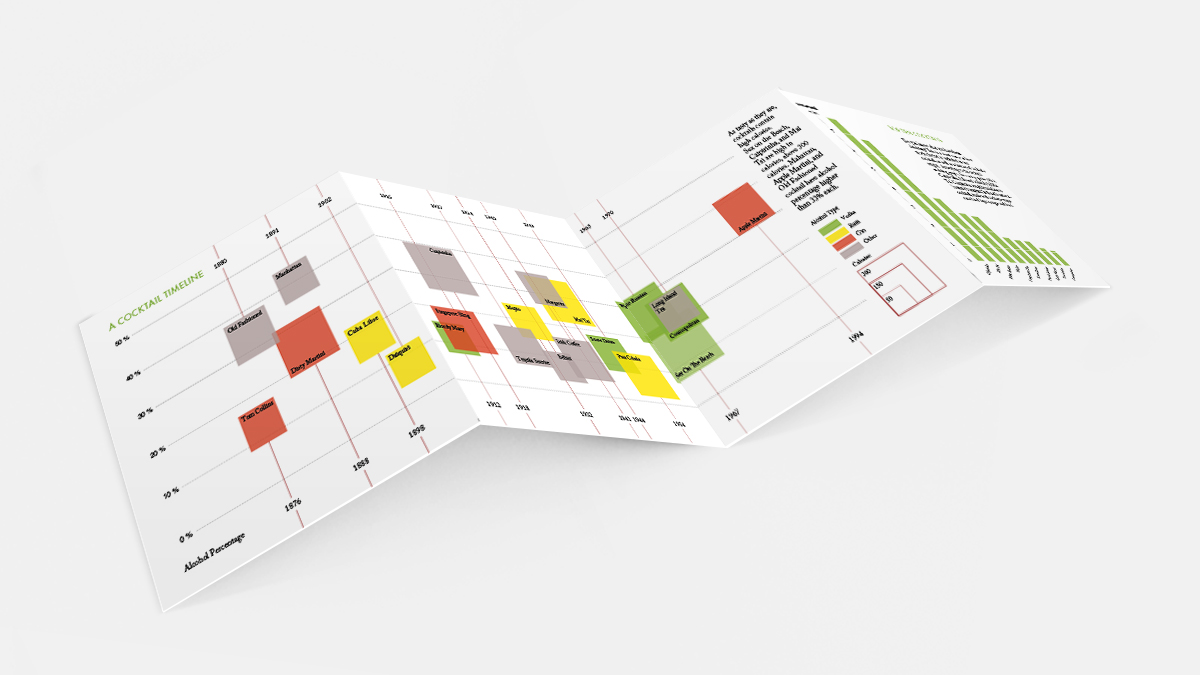
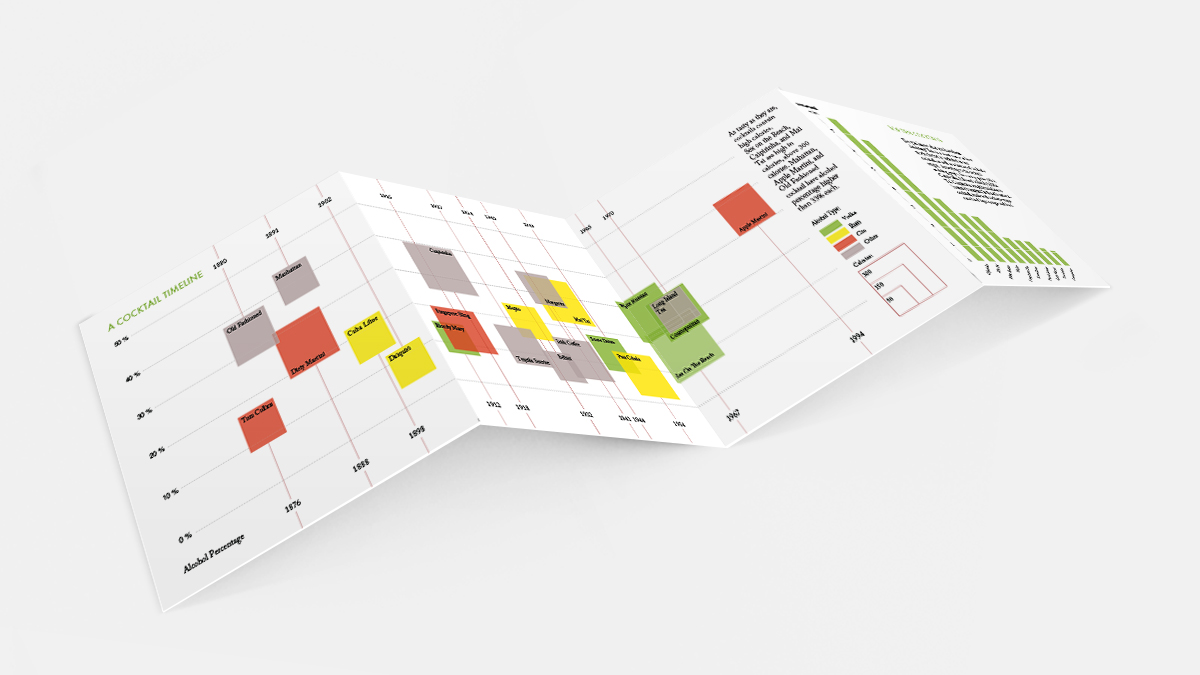
Social Media, Websie, Exist, Cocktail images and content updated. High resolution images now available

diff --git a/directory/cocktail.html b/directory/cocktail.html
@@ -77,25 +77,24 @@ GitHub: Yunggg // http://github.com/Yunggg
 			<div class="col-md-12 portfolio">
 				<div class="portfolio_copy">
 					<h2>Cocktails</h2>
-					<p>Do you really know what you’ve been drinking? After stumbling on a survey about cocktails, in which most people are not aware of what is in their drinks, especially college students, I thought of creating a cocktail infographic. This is a short study on how much alcohol is included in one cocktail, as well as a history of cocktails origin. The deliverable is a cocktail napkin which can be leave-behind at bars/restaurants for casual reading.
+					<p>Do you really know what you’ve been drinking? After studying a survey about cocktails, I have learned that most people are not aware of what their drinks contain, especially college students. Hence I create a cocktail info-graphic design that could be used as a leave-behind at bars/restaurants for casual reading. It includes a short study on the popular cocktails, alcohol percentage, as well as a history of cocktails origin.
 					<br><br>
 					Size: 5 x 20 inch, Accordion Fold
 					<br><br>
 					Cocktail Research:</p><br>
 					<ul>
 						<li>Alcohol Percentage</li>
-						<li>Calories</li>
+						<li>Amount of Calories</li>
 						<li>Year of Creation</li>
 						<li>Ingredients</li>
 						<li>Cocktail Glasses</li>
 					</ul>
 					<br>
 					<p>
-						<a href="#">Research,</a>
 						<a href="#">Data Visualization,</a>
 						<a href="#">Illustration</a>
 					</p>
-					<p>Software: Illustrator, R Studio, InDesign</p>
+					<p>Software: Illustrator, R Studio, InDesign, Acrobat</p>
 				</div>
 			</div>
 		</section>
@@ -105,15 +104,14 @@ GitHub: Yunggg // http://github.com/Yunggg
 		<section class="row">
 			<div class="col-md-12 portfolio">
 				<div class="portfolio_copy">
-					<h3>Company: <span class="book_regular">Tradeshift</span></h3>
 					<div class="colorPalette">
 						<h3>Color palette</h3>
 						<ul>
-							<li id="et_01"></li>
-							<li id="et_02"></li>
-							<li id="et_03"></li>
-							<li id="et_04"></li>
-							<li id="et_05"></li>
+							<li id="cocktail_01"></li>
+							<li id="cocktail_02"></li>
+							<li id="cocktail_03"></li>
+							<li id="cocktail_04"></li>
+							<li id="cocktail_05"></li>
 						</ul>
 					</div>
 				</div>
@@ -132,13 +130,20 @@ GitHub: Yunggg // http://github.com/Yunggg
 			</div>
 		</section>
 		<section class="row">
-			<div class="col-md-12 portfolio">
+			<div class="col-md-12 portfolio_img">
 				<img src="../img/assets/projects/cocktails/flyer_mockup_a.jpg" alt="Flyer Mockup Side A" />
 			</div>
 		</section>
 		<section class="row">
-			<div class="col-md-12 portfolio">
+			<div class="col-md-12 portfolio_img">
 				<img src="../img/assets/projects/cocktails/ingredients.jpg" alt="Cocktail Ingredients" />
+			</div>
+		</section>
+		<section class="row">
+			<div class="col-md-12 portfolio">
+				<div class="portfolio_copy subtitles">
+					<p>This graph presents the time of origin, alcohol percentage, calories level, and type of alcohol consisted in each cocktail. According to the ranking, the most popular pick is Caipirinha, followed closely by Mai Tai. Caipirinha, roughly translates to "country bumpkin," is Brazil’s national cocktail, made with cachaca-sugar cane hard liquor, sugar and lime.<br><br>As tasty as they are, cocktails contain high calories and high alcohol level. Sex on the Beach, Caipirinha, and Mai Tai are high in calories, above 300 calories each. Mahattan, Apple Martini, and Old Fashioned cocktails all share an alcohol percentage higher than 33% each. </p>
+				</div>
 			</div>
 		</section>
 		<section class="row">
@@ -147,14 +152,7 @@ GitHub: Yunggg // http://github.com/Yunggg
 			</div>
 		</section>
 		<section class="row">
-			<div class="col-md-12 portfolio">
-				<div class="portfolio_copy subtitles">
-					<p>This graph presents the time of origin, alcohol percentage, calories level, and type of alcohol consisted in each cocktail. According to the ranking graph, the most popular pick is Caipirinha, followed closely by Mai Tai. Caipirinha, roughly translates to "country bumpkin," is Brazil’s national cocktail, made with cachaca-sugar cane hard liquor, sugar and lime.<br><br>As tasty as they are, cocktails contain high calories and high alcohol level. Sex on the Beach, Caipirinha, and Mai Tai are high in calories, above 300 calories each. Mahattan, Apple Martini, and Old Fashioned cocktail have alcohol percentage higher than 33% each. </p>
-				</div>
-			</div>
-		</section>
-		<section class="row">
-			<div class="col-md-12 portfolio">
+			<div class="col-md-12 portfolio_img">
 				<img src="../img/assets/projects/cocktails/flyer_mockup_b.jpg" alt="Flyer Mockup Side B" />
 			</div>
 		</section>

diff --git a/directory/website.html b/directory/website.html
@@ -64,7 +64,7 @@ GitHub: Yunggg // http://github.com/Yunggg
 		<div class="row">
 		 	<div class="col-md-12 hero_shot">
 			  	<div class="hero_fg" >
-			  		<img src="../img/assets/projects/website/website_header.png" alt="Dung's Hero Portrait" />
+			  		<img src="../img/assets/projects/website/web_header.png" alt="Dung's Hero Portrait" />
 			  	</div>
 			  	<div class="hero_bg" >
 			  		<img src="../img/assets/projects/email_temp/hero_bg.jpg" alt="Dung's Hero BG" />
@@ -81,7 +81,6 @@ GitHub: Yunggg // http://github.com/Yunggg
 					<p>Various Website assets created for Tradeshift to host and promotes their events, webinars, campaigns, and new product features. Targets worldwide audience, mostly in Northern America (San Francisco) and Europe (London, Paris). The design follows and strengthens the brand’s style guide: sleek, modern, energetic, straight to the point and comprehensive.</p>
 					<br>
 					<p>
-						<a href="#">Marketing,</a>
 						<a href="#">Illustration,</a>
 						<a href="#">Typography</a>
 					</p>
@@ -95,11 +94,11 @@ GitHub: Yunggg // http://github.com/Yunggg
 					<div class="colorPalette">
 						<h3>Color palette</h3>
 						<ul>
-							<li id="cocktail_01"></li>
-							<li id="cocktail_02"></li>
-							<li id="cocktail_03"></li>
-							<li id="cocktail_04"></li>
-							<li id="cocktail_05"></li>
+							<li id="et_01"></li>
+							<li id="et_02"></li>
+							<li id="et_03"></li>
+							<li id="et_04"></li>
+							<li id="et_05"></li>
 						</ul>
 					</div>
 				</div>
@@ -119,12 +118,17 @@ GitHub: Yunggg // http://github.com/Yunggg
 			</div>
 		</section>
 		<section class="row">
-			<div class="col-md-12 portfolio">
+			<div class="col-md-12 portfolio_img">
 				<img src="../img/assets/projects/website/laptop_air_demo.png" alt="Website Laptop Mockup" />
 			</div>
 		</section>
 		<section class="row">
-			<div class="col-md-12 portfolio">
+			<div class="col-md-12 portfolio_img">
+				<img src="../img/assets/projects/website/center_trial_header.jpg" alt="Website Trial" />
+			</div>
+		</section>
+		<section class="row">
+			<div class="col-md-12 portfolio_img">
 				<img src="../img/assets/projects/website/report_02.png" alt="Website Landing Page" />
 			</div>
 		</section>
@@ -152,6 +156,24 @@ GitHub: Yunggg // http://github.com/Yunggg
 				<img src="../img/assets/projects/website/demo1b.jpg" alt="Demo Website Mockup" />
 			</div>
 		</section>
+		<section class="row">
+			<div class="col-md-12 portfolio">
+				<div class="portfolio_copy subtitles">
+					<h3>Subpages</h3>
+					<p>Unlike the Center page, Subpages focus more on the actual event/webinar. Therefore the information is present in hierarchy, introducing and making an impression on the viewer. The form stays on the right side, always, to remind audience and also make it easy to register when they’ve made a decision.</p>
+				</div>
+			</div>
+		</section>
+		<section class="row">
+			<div class="col-md-12 portfolio">
+				<img src="../img/assets/projects/website/demo2b.jpg" alt="Event Subpage" />
+			</div>
+		</section>
+		<section class="row">
+			<div class="col-md-12 portfolio_img">
+				<img src="../img/assets/projects/website/demo2b-mobile.jpg" alt="Event Subpage Mobile" />
+			</div>
+		</section>		
 
 <!--*************** "Footer" (Keep within Content Container) *************** -->
 

diff --git a/directory/exist.html b/directory/exist.html
@@ -64,7 +64,7 @@ GitHub: Yunggg // http://github.com/Yunggg
 		<div class="row">
 		 	<div class="col-md-12 hero_shot">
 			  	<div class="hero_fg" >
-			  		<img src="../img/assets/projects/exist/header_img.gif" alt="Dung's Hero Portrait" />
+			  		<img src="../img/assets/projects/exist/11.png" alt="Dung's Hero Portrait" />
 			  	</div>
 			  	<div class="hero_bg exist" >
 			  	</div>
@@ -81,7 +81,6 @@ GitHub: Yunggg // http://github.com/Yunggg
 					<p>Bei Dao was an underground poet fighting for Capitalism in a Communist Nation. Born and raised under Communism, he saw the heights and lows of life, and he wanted change. Quiet and determined, he presented a political solution that turned him into a national traitor, exiled for life.<br><br>Deliverable: Poster (30 x 40 inch), Book (5.25 x 7.5 inch), Trailer</p>
 					<br>
 					<p>
-						<a href="#">Research,</a>
 						<a href="#">Typography,</a>
 						<a href="#">Illustration</a>
 					</p>
@@ -128,12 +127,12 @@ GitHub: Yunggg // http://github.com/Yunggg
 		</section>
 		<section class="row">
 			<div class="col-md-12 portfolio_img">
-				<img src="../img/assets/projects/exist/section3.jpg" alt="Exist Book Section 3" />
+				<img src="../img/assets/projects/exist/mock-ups-b.jpg" alt="Exist Book Section 3" />
 			</div>
 		</section>
 		<section class="row">
 			<div class="col-md-12 portfolio_img">
-				<img src="../img/assets/projects/exist/mockup_b.jpg" alt="Exist Book Mock-Up" />
+				<img src="../img/assets/projects/exist/mock-ups-f.jpg" alt="Exist Book Mock-Up" />
 			</div>
 		</section>
 		<section class="row">
@@ -146,12 +145,22 @@ GitHub: Yunggg // http://github.com/Yunggg
 		</section>
 		<section class="row">
 			<div class="col-md-12 portfolio_img">
-				<img src="../img/assets/projects/exist/mockup_a.jpg" alt="Exist Chapter 10 Mock-Up" />
+				<img src="../img/assets/projects/exist/opener.gif" alt="Exist Chapter Openers" />
+			</div>
+		</section>
+		<section class="row">
+			<div class="col-md-12 portfolio_img">
+				<img src="../img/assets/projects/exist/mock-ups-a.jpg" alt="Exist Chapter 10 Mock-Up" />
 			</div>
 		</section>
 		<section class="row">
 			<div class="col-md-12 portfolio">
-				<img src="../img/assets/projects/exist/chap3.jpg" alt="Exist Chapter 3 Mock-Up" />
+				<img src="../img/assets/projects/exist/chap3b.jpg" alt="Exist Chapter 3 Mock-Up" />
+			</div>
+		</section>
+		<section class="row">
+			<div class="col-md-12 portfolio">
+				<img src="../img/assets/projects/exist/book-cover.jpg" alt="Exist Book Cover" />
 			</div>
 		</section>
 
